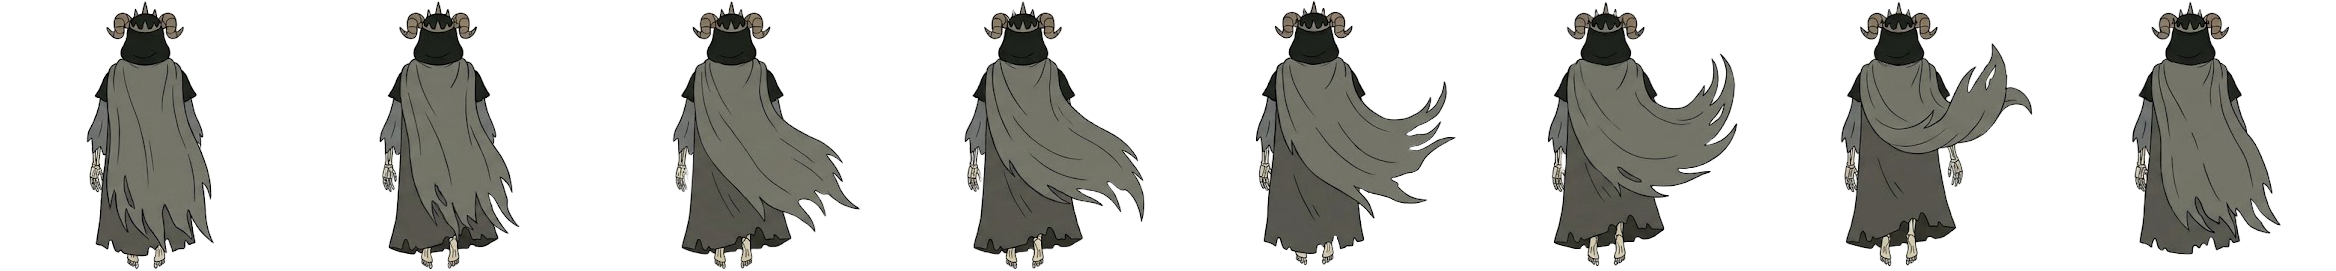
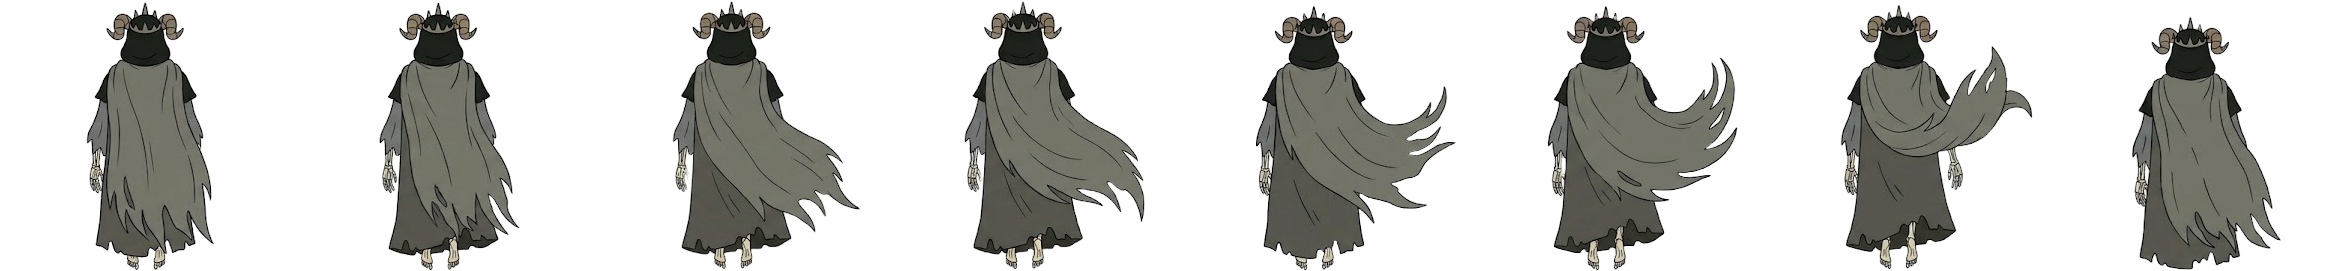
fix: ground the Lich sprite with a contact shadow and feet-aligned frames
The sprite path skipped the ground shadow, so the floating idle art read as
hovering. Draw the shadow under every Lich sprite, re-slice the idle strip
with feet level, and ask for planted feet in the run prompt.

diff --git a/src/render.ts b/src/render.ts
@@ -381,6 +381,12 @@ function drawPlayer(
   const stride = s.phase === "dead" ? 0 : Math.sin(time * 14) * 0.6 * u;
   const gy = p.y - lift;
   const spriteH = (slide ? 7 : 17) * u;
+  // Contact shadow, under the sprite too: it is what makes a floating figure read as standing on
+  // the road, and it stays on the ground while a jump lifts the Lich.
+  ctx.fillStyle = "rgba(40,10,60,0.4)";
+  ctx.beginPath();
+  ctx.ellipse(p.x, p.y, bodyW * 1.3 * (1 - pl.jumpHeight * 0.3), u * 1.4, 0, 0, TAU);
+  ctx.fill();
   // Most specific first. The idle loop stands in for run and jump, but not for slide: it is far too
   // tall to pass under the licorice arch.
   const names = [
@@ -392,11 +398,6 @@ function drawPlayer(
   for (const name of names) {
     if (drawSprite(ctx, assets, name, p.x, gy, spriteH, "bottom", time)) return;
   }
-  // shadow
-  ctx.fillStyle = "rgba(40,10,60,0.35)";
-  ctx.beginPath();
-  ctx.ellipse(p.x, p.y, bodyW * (1 - pl.jumpHeight * 0.3), u * 1.2, 0, 0, TAU);
-  ctx.fill();
   // robe
   ctx.fillStyle = "#1d1630";
   ctx.beginPath();

diff --git a/src/asset-manifest.ts b/src/asset-manifest.ts
@@ -5,7 +5,7 @@ import { assetUrl, type AssetManifest } from "./assets";
 export const manifest: AssetManifest = {
   images: {},
   sheets: {
-    // 8-frame cape-flutter loop, back view. Cell 292x271, heads level, body centered in the cell.
+    // 8-frame cape-flutter loop, back view. Cell 292x271, feet on the cell bottom, body centered in the cell.
     "lich.idle": { src: assetUrl("assets/images/lich-idle.png"), frames: 8, fps: 10 },
   },
   audio: {},

diff --git a/docs/lich-sprite-prompts.md b/docs/lich-sprite-prompts.md
@@ -5,7 +5,10 @@ Prompts for the Lich poses the game still needs, written to match the first shee
 sheet as a reference image if your generator supports one, and say "same character, same style".
 
 The shipped idle sheet is the model: 8 frames in a 4x2 grid on a transparent background, clear
-empty space between frames, the head in the same spot in every frame, only the cloak moving.
+empty space between frames, the figure the same size in every frame, only the cloak moving. Note
+that the idle art **hovers** (its feet dangle above the ground), which is why running looked like
+hovering. The game now draws a contact shadow under it, but the run sheet should have real
+ground contact (see below).
 `tools/slice_sheet.py` relies on that.
 
 ## Style block (use with every pose)
@@ -17,7 +20,8 @@ empty space between frames, the head in the same spot in every frame, only the c
 > lines, no gradients, no texture, no background scenery, no shadows, no text.
 >
 > Layout: a grid of equal cells on a plain flat white background. The character is the same size in
-> every cell. The head is at exactly the same height and horizontal position in every cell. Leave a
+> every cell. The head is at exactly the same height and horizontal position in every cell, and the feet (or
+> hem) rest on the same baseline in every cell. Leave a
 > wide empty gap between cells so that nothing, including cloak tips, crosses into the next cell.
 > Consistent design, proportions and colors in every frame.
 
@@ -36,7 +40,8 @@ want it.
 
 > Pose: viewed from behind, as if the camera follows the character. A looping run cycle of 8 frames
 > in a 4x2 grid. The figure glides and strides forward, leaning slightly forward, skeletal feet
-> alternating beneath the hem, arms swinging a little. The cloak streams behind and to the sides
+> alternating beneath the hem, arms swinging a little. **The feet visibly plant on the ground with
+> each stride: a foot touches the floor in every frame, and the figure never hovers.** The cloak streams behind and to the sides
 > with a strong whip, alternating left and right through the loop, and the last frame flows
 > seamlessly into the first.
 
@@ -76,8 +81,9 @@ want it.
   moves between frames, and any frame that is a different size from the rest.
 - **Slice with the tool, which tells you if frames touch:**
   `python tools/slice_sheet.py sheet.png --frames 6 --out public/assets/images/lich-jump.png --preview preview.png`
-  Use `--anchor left-edge` if a cape tip flares into the head area (as in the idle sheet), and
-  `--align bottom` if feet should stay level instead of heads. Open the preview and check that the
+  Use `--anchor left-edge` if a cape tip flares into the head area (as in the idle sheet).
+  `--align bottom` (feet level, the default to use for grounded poses) puts the sprite's bottom
+  edge on the ground line; `--align top` keeps heads level instead. Open the preview and check that the
   red center line passes through the same point on the body in every frame.
 - **Registering:** add the strip to `sheets` in `src/asset-manifest.ts` with the frame count, and add
   a credits row in [`assets.md`](assets.md).

diff --git a/docs/assets.md b/docs/assets.md
@@ -49,7 +49,7 @@ centered on the lane.
 | `crown.ice-king-crown`    | 6u     | center | Three rubies, worth 3. Drawn 1.3x larger in play. |
 | `portal`                  | ~2.2x portal radius | center | Prismo's portal.                |
 | `lich.idle`               | 17u    | bottom | **Sheet, in the game.** Stands in for run and jump until they have their own. |
-| `lich.run` / `lich.jump`  | 17u    | bottom | Sheets or images. Jump height is applied by the game. |
+| `lich.run` / `lich.jump`  | 17u    | bottom | Sheets or images. Jump height is applied by the game. A contact shadow is drawn under every Lich sprite. |
 | `lich.slide`              | 7u     | bottom | Must stay low enough to pass under the arch. The idle sheet is never used for a slide. |
 | `lich.dead`               | 17u    | bottom | Shown once the Lich has hit something.         |
 | `lich.wish`               | 42% of screen height | bottom | Cutscene Lich, on the left of the screen. |
@@ -61,8 +61,9 @@ and finally the built-in shape. The backdrop, road and scenery are still drawn w
 ## Sprite sheets
 
 A sheet is a horizontal strip of equal-width frames. Frames are drawn at the same height as a plain
-image, so keep every frame's head at the same height and the body centered in its cell; only the
-cape or limbs should move.
+image, so keep the body centered in its cell and the feet (or hem) on the same baseline in every
+frame; only the cape or limbs should move. Feet-level is why `lich-idle.png` was sliced with
+`--align bottom`: the sprite's bottom edge is the ground line.
 
 - Playback is a **loop driven by wall-clock time**, not tied to the pose. A jump is not synchronized
   to frame 0, so write jump, slide and dead sheets as seamless loops. One-shot playback is not
@@ -71,7 +72,7 @@ cape or limbs should move.
   channel, so frames only need empty space between them, not a clean grid. Anchor modes and flags
   are documented at the top of the script.
 - `public/assets/images/lich-idle.png` was made with:
-  `python tools/slice_sheet.py <sheet.png> --frames 8 --out public/assets/images/lich-idle.png --anchor left-edge --align top`
+  `python tools/slice_sheet.py <sheet.png> --frames 8 --out public/assets/images/lich-idle.png --anchor left-edge --align bottom`
 - Prompts for the remaining Lich poses are in [`lich-sprite-prompts.md`](lich-sprite-prompts.md).
 
 ## Audio
